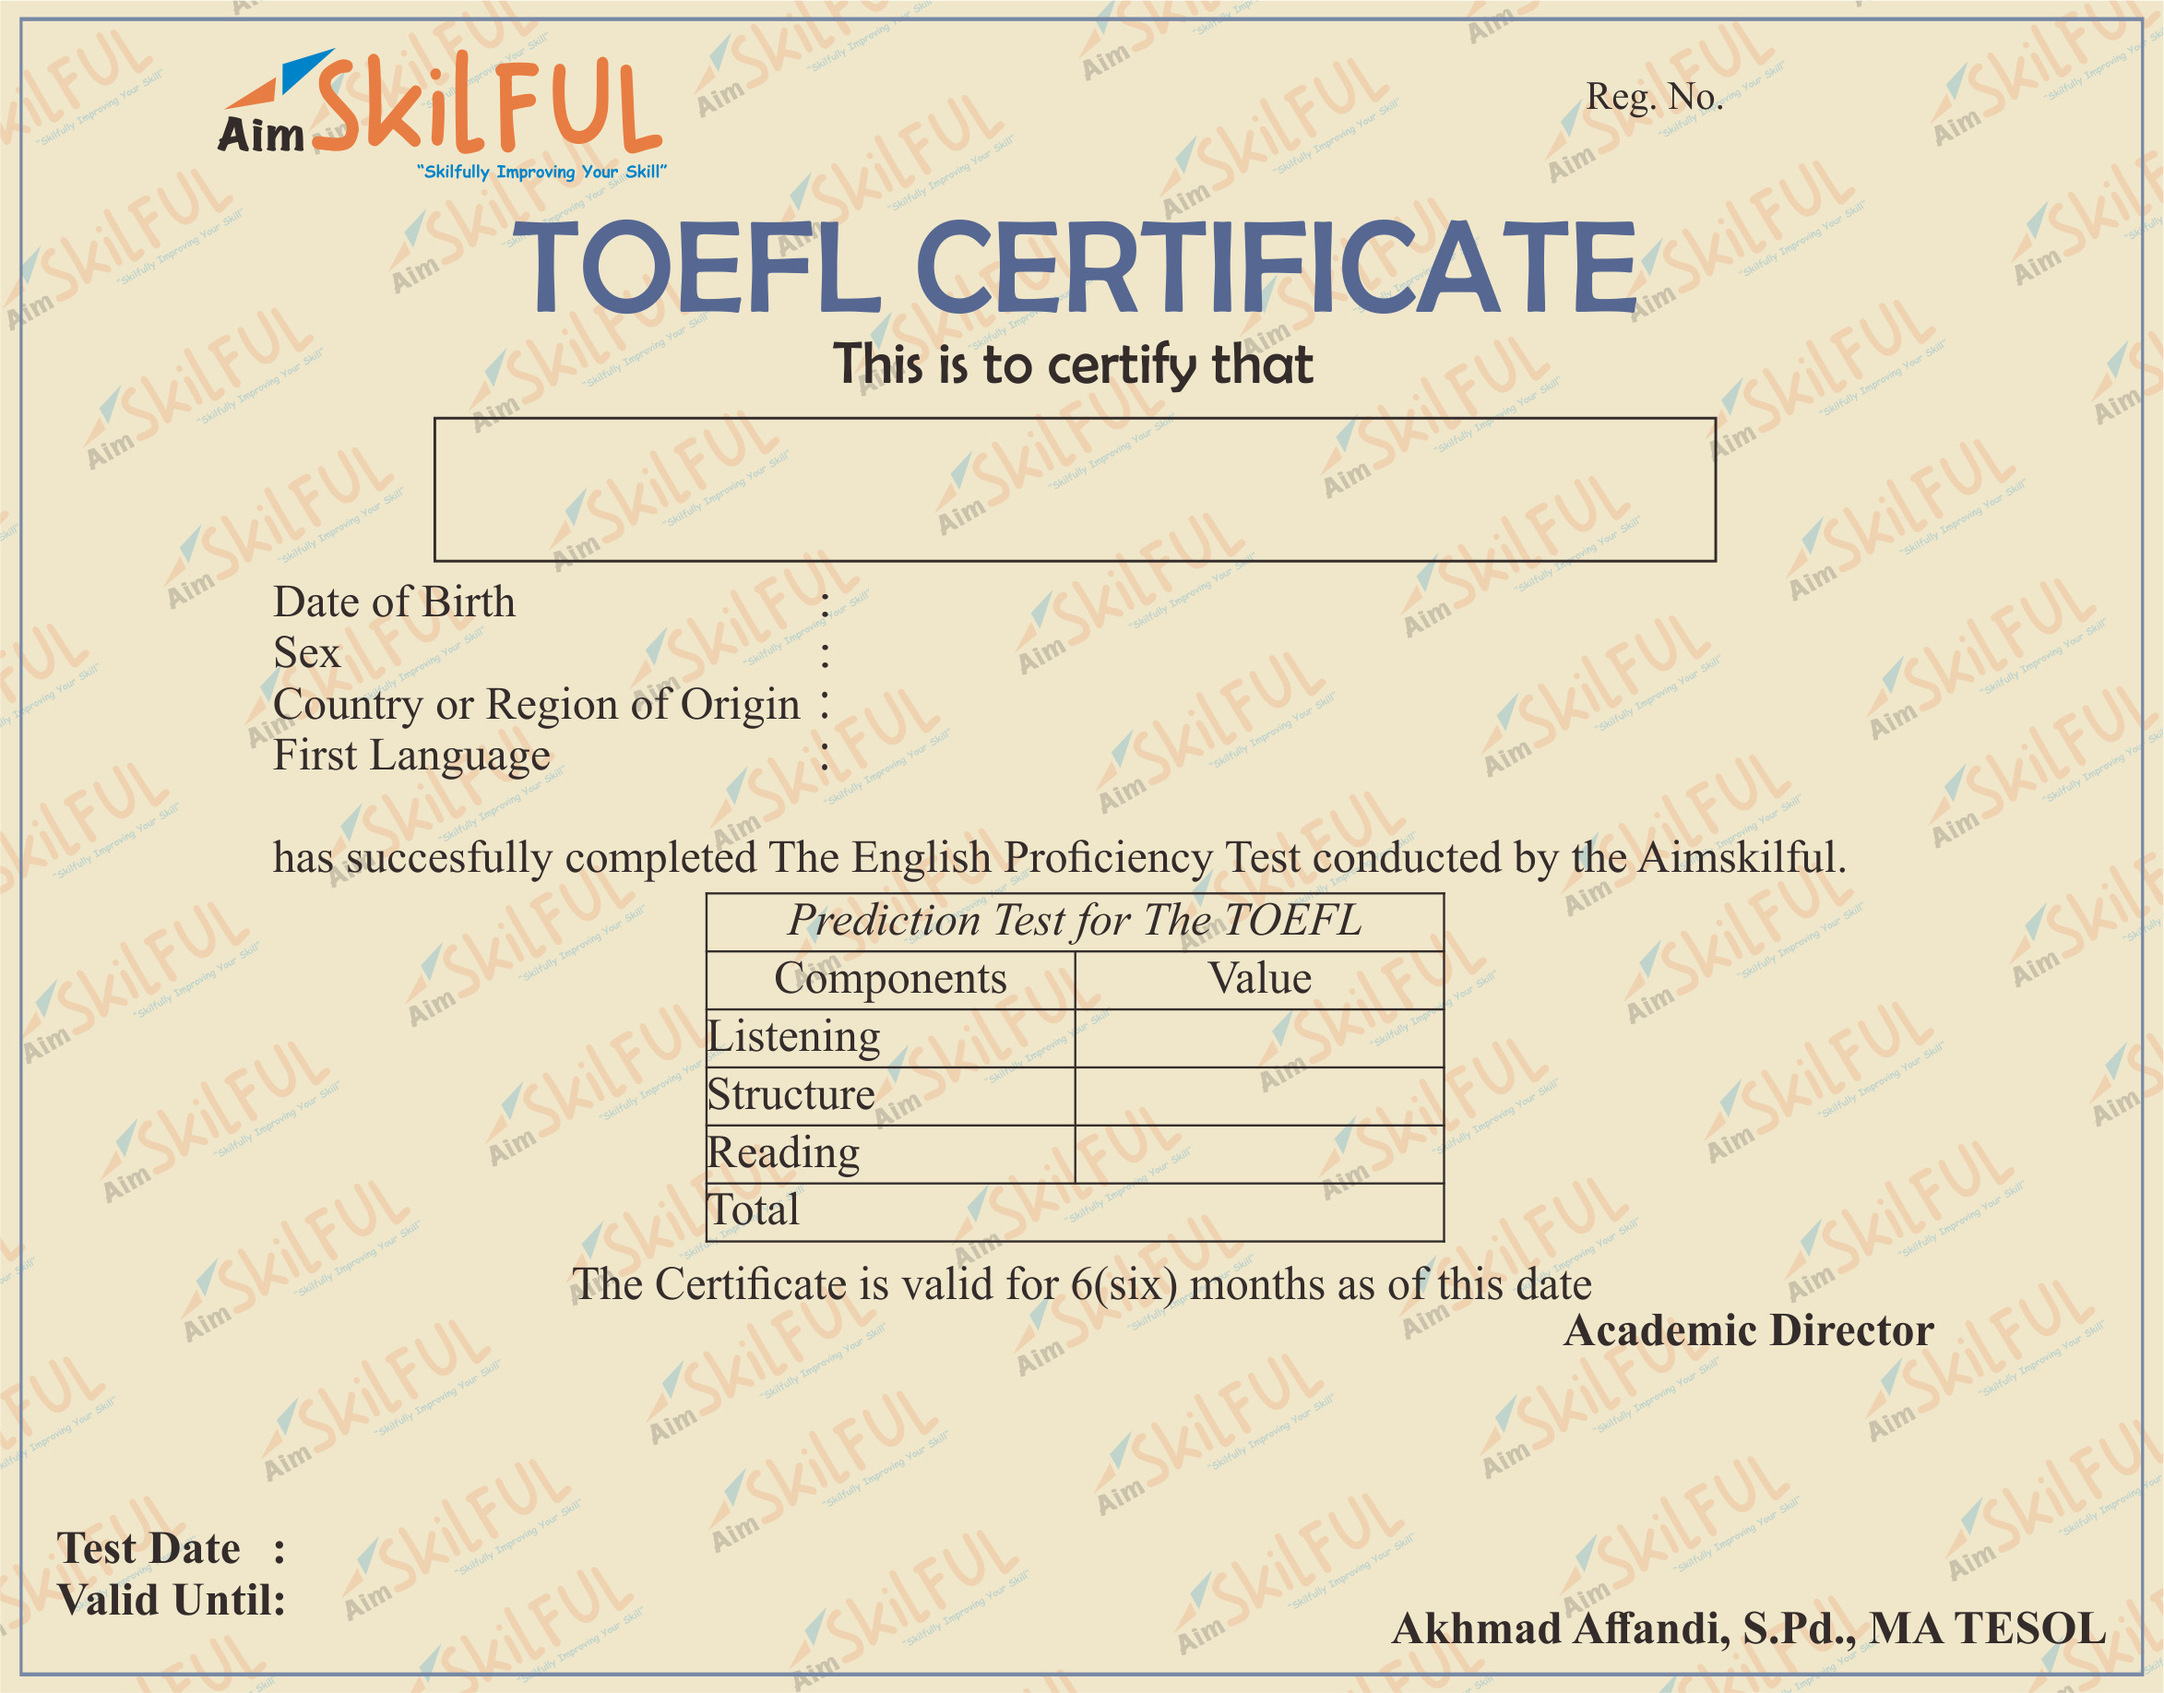
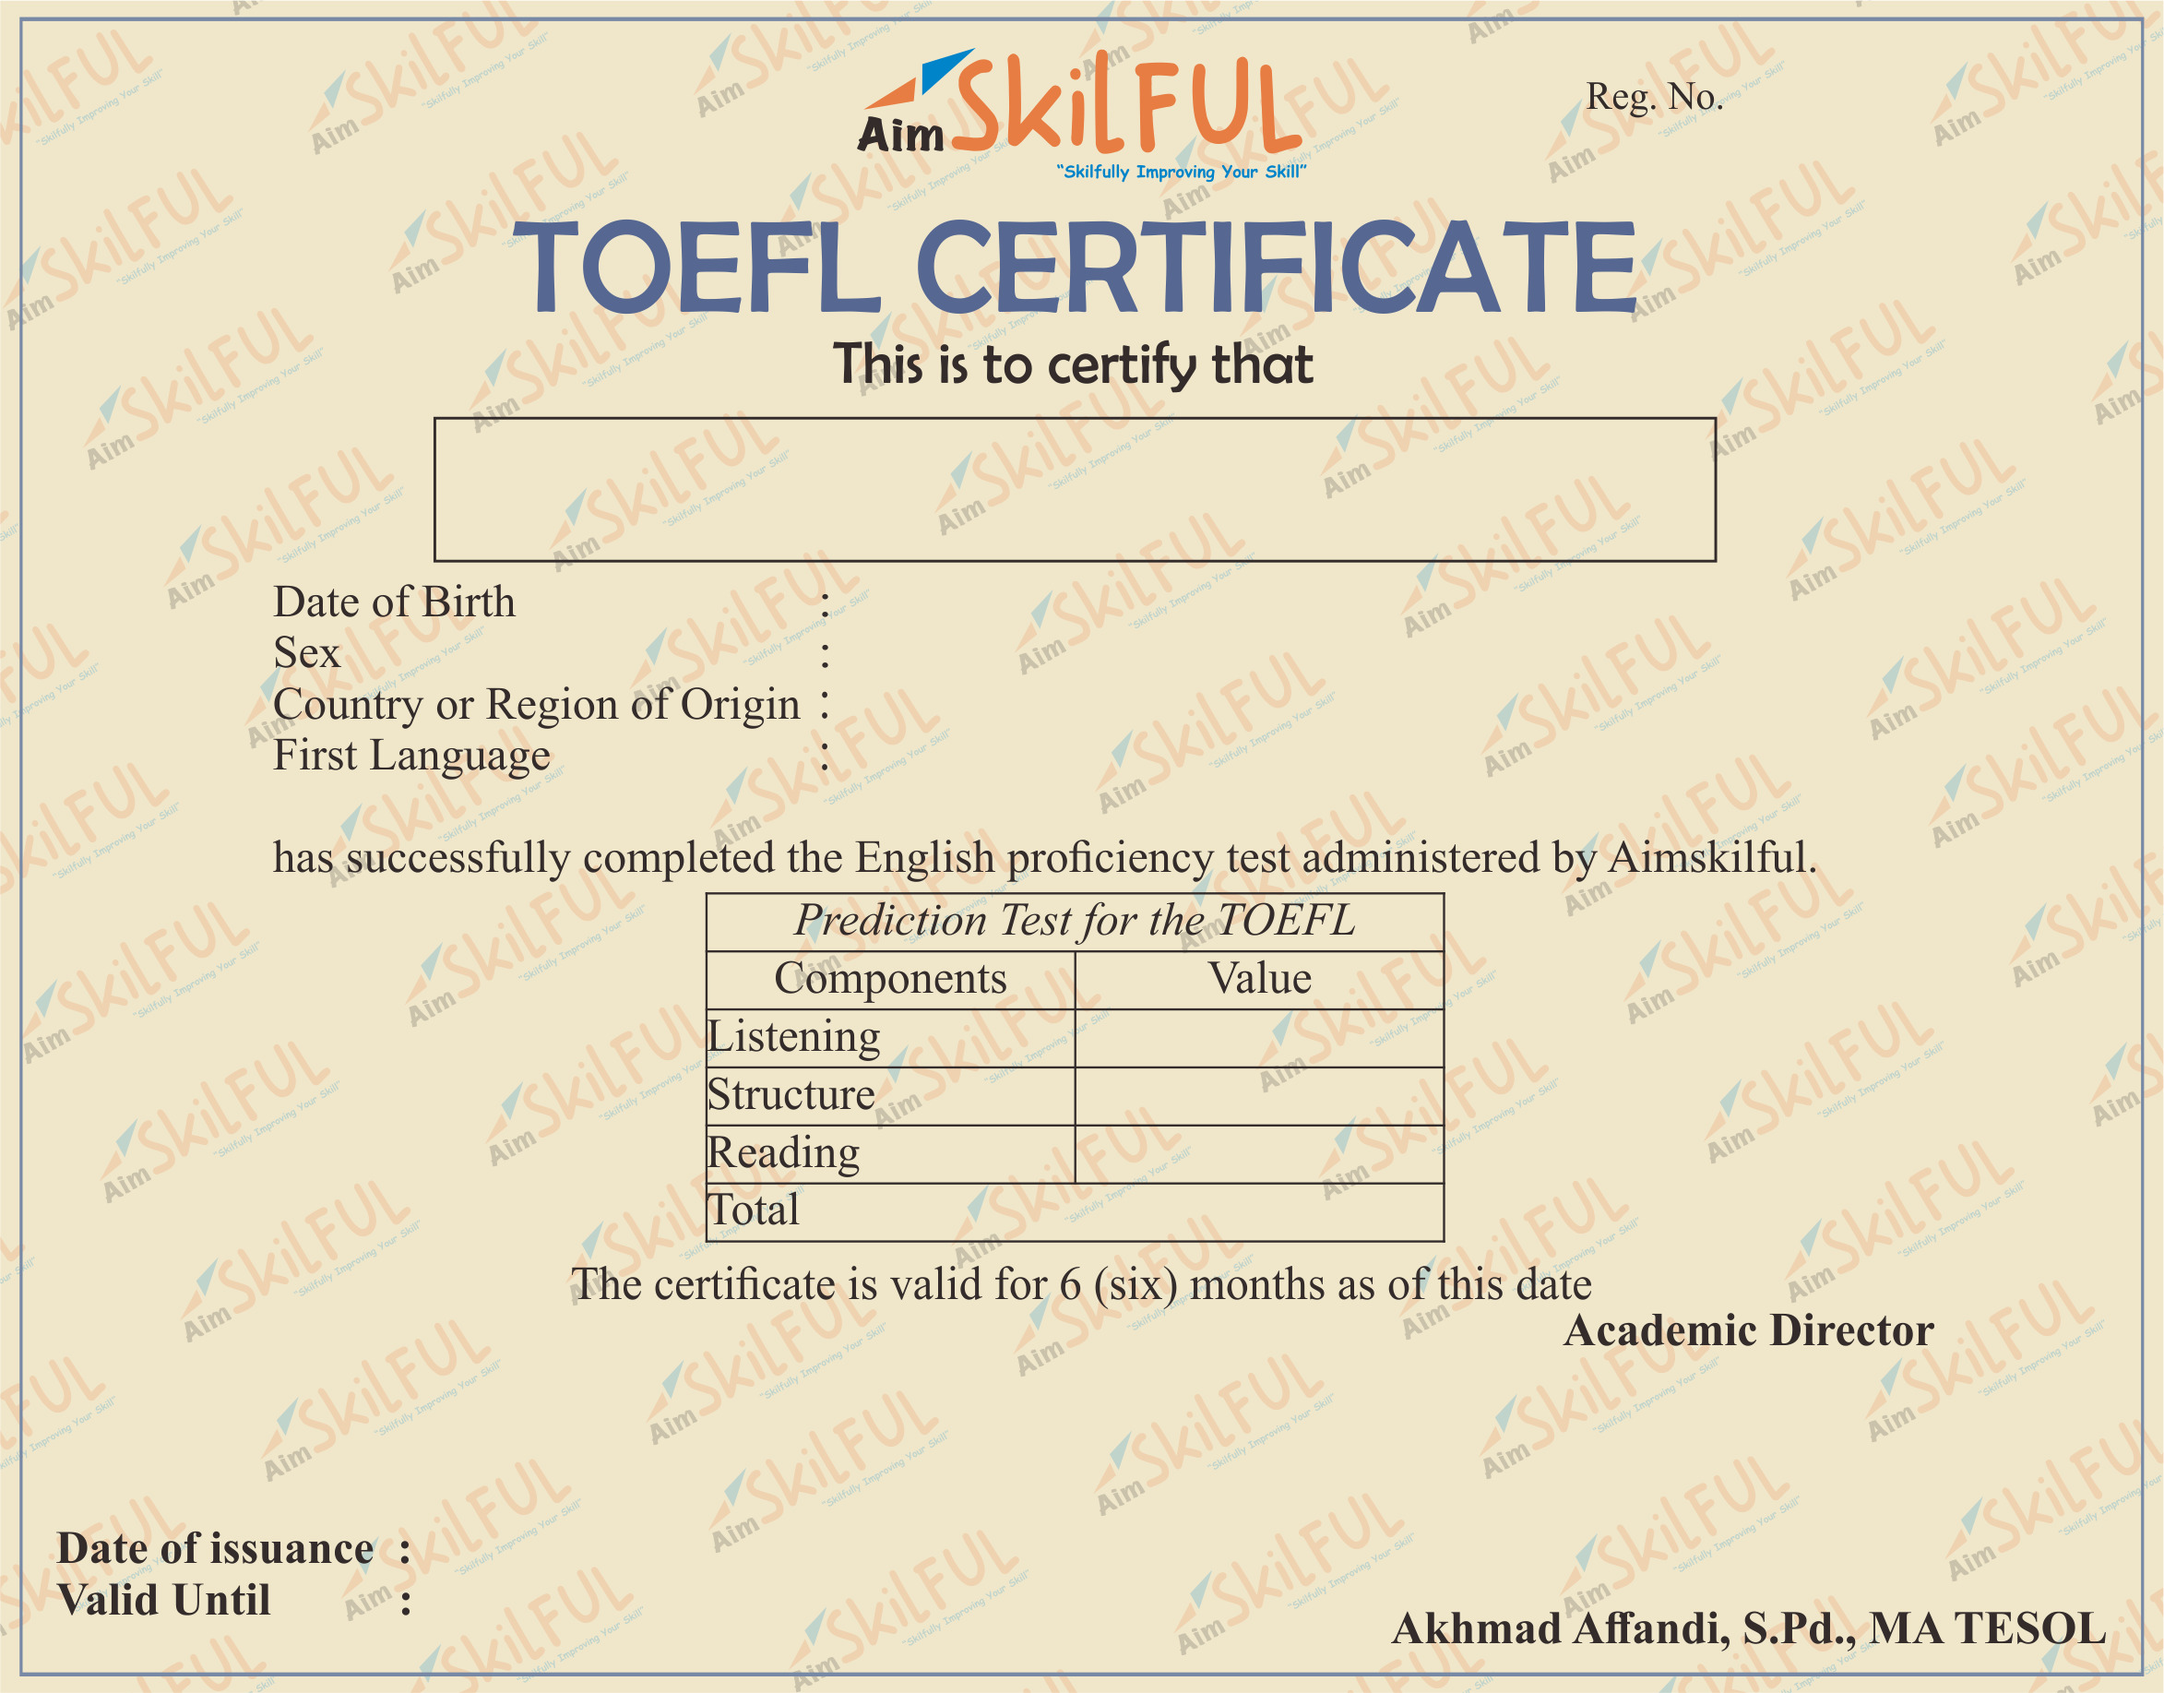
edit sertifikat

diff --git a/application/views/pages/tes/sertifikat-kolaborasi.php b/application/views/pages/tes/sertifikat-kolaborasi.php
@@ -68,7 +68,7 @@
         .logo{
             /* width: 210px; */
 			position: absolute;
-            right: 330px;
+            left: 50px;
 			top: 18px;
         }
 
@@ -205,7 +205,7 @@
 
         .tgl{
 			position: absolute;
-            left: 110px;
+            left: 155px;
 			/* bottom: 65px; */
 			bottom: 38px;
             font-size: 14px;
@@ -215,7 +215,7 @@
 
         .tgl_akhir{
 			position: absolute;
-            left: 110px;
+            left: 155px;
 			bottom: 21px;
             font-size: 14px;
             font-family: 'times';

diff --git a/application/views/pages/tes/sertifikat.php b/application/views/pages/tes/sertifikat.php
@@ -205,7 +205,7 @@
 
         .tgl{
 			position: absolute;
-            left: 110px;
+            left: 155px;
 			/* bottom: 65px; */
 			bottom: 38px;
             font-size: 14px;
@@ -215,7 +215,7 @@
 
         .tgl_akhir{
 			position: absolute;
-            left: 110px;
+            left: 155px;
 			bottom: 21px;
             font-size: 14px;
             font-family: 'times';
